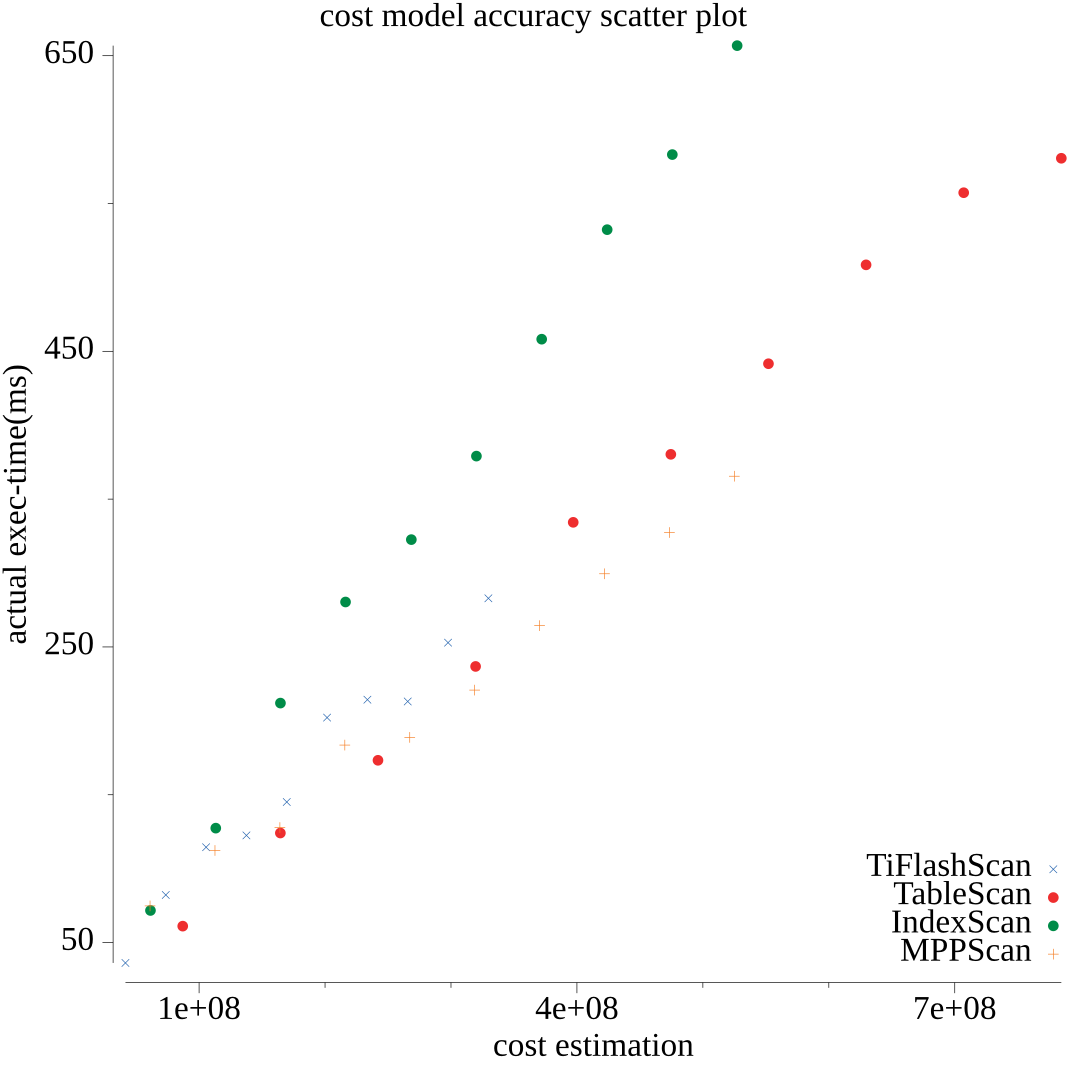
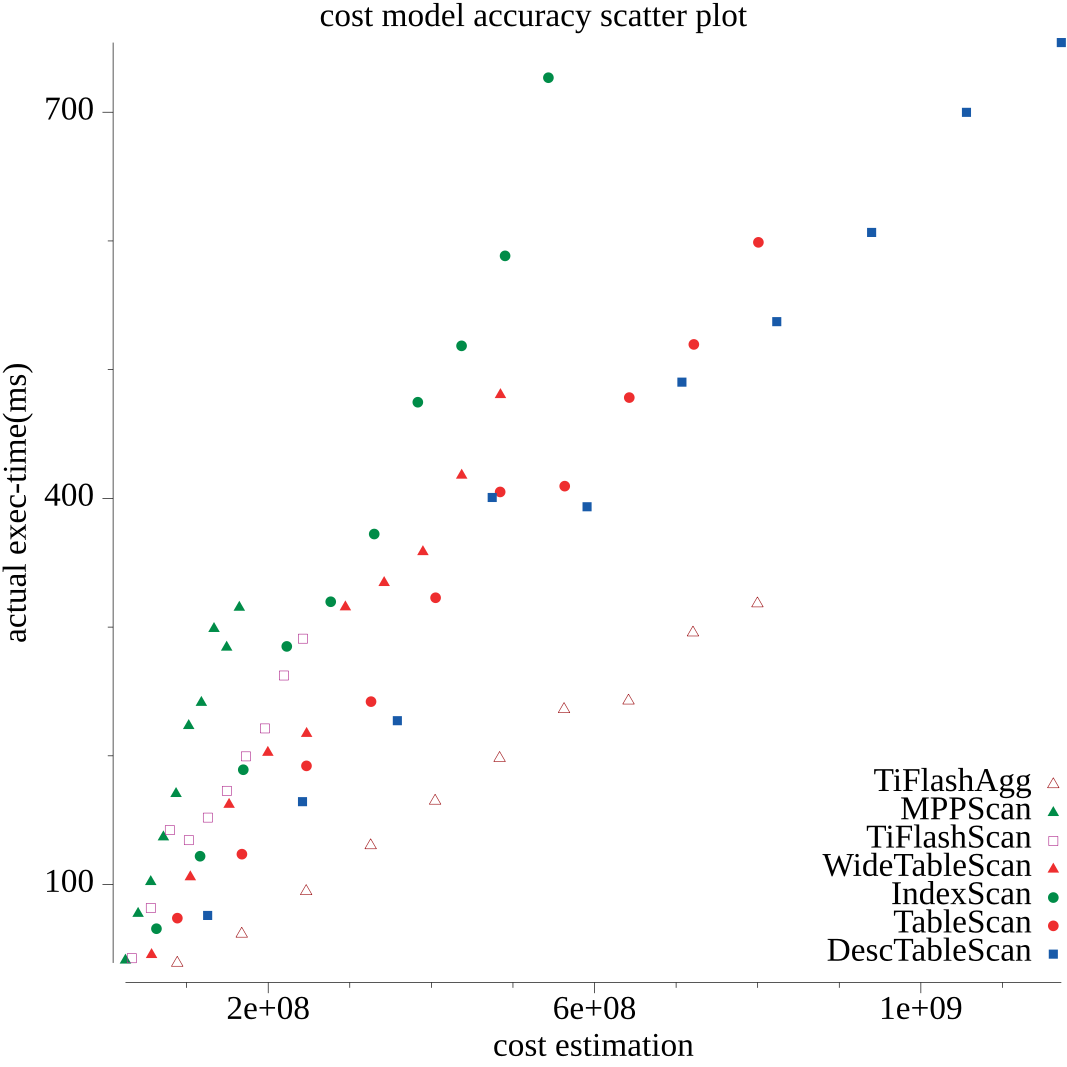
fixup

diff --git a/cost/eval_synthetic.go b/cost/eval_synthetic.go
@@ -63,8 +63,8 @@ func genSyntheticEvalQueries(ins tidb.Instance, db string, n int) Queries {
 
 	// TiKV Plans
 	qs = append(qs, genSyntheticEvalTableScan(ins, getSyntheticScale("TableScan"), n)...)
-	//qs = append(qs, genSyntheticEvalDescTableScan(ins, getSyntheticScale("DescTableScan"), n)...)
-	//qs = append(qs, genSyntheticEvalWideTableScan(ins, getSyntheticScale("WideTableScan"), n)...)
+	qs = append(qs, genSyntheticEvalDescTableScan(ins, getSyntheticScale("DescTableScan"), n)...)
+	qs = append(qs, genSyntheticEvalWideTableScan(ins, getSyntheticScale("WideTableScan"), n)...)
 	qs = append(qs, genSyntheticEvalIndexScan(ins, getSyntheticScale("IndexScan"), n)...)
 	//qs = append(qs, genSyntheticEvalDescIndexScan(ins, getSyntheticScale("DescIndexScan"), n)...)
 	//qs = append(qs, genSyntheticEvalWideIndexScan(ins, getSyntheticScale("WideIndexScan"), n)...)
@@ -79,7 +79,7 @@ func genSyntheticEvalQueries(ins tidb.Instance, db string, n int) Queries {
 	// TiFlash & MPP Plans
 	qs = append(qs, genSyntheticEvalTiFlashScan(ins, getSyntheticScale("TiFlashScan"), n)...)
 	qs = append(qs, genSyntheticEvalMPPScan(ins, getSyntheticScale("MPPScan"), n)...)
-	//qs = append(qs, genSyntheticEvalTiFlashAgg(ins, getSyntheticScale("TiFlashAgg"), n)...)
+	qs = append(qs, genSyntheticEvalTiFlashAgg(ins, getSyntheticScale("TiFlashAgg"), n)...)
 	//qs = append(qs, genSyntheticEvalMPPTiDBAgg(ins, getSyntheticScale("MPPTiDBAgg"), n)...)
 	//qs = append(qs, genSyntheticEvalMPP2PhaseAgg(ins, getSyntheticScale("MPP2PhaseAgg"), n)...)
 	//qs = append(qs, genSyntheticEvalMPPHJ(ins, getSyntheticScale("MPPHJ"), n)...)
@@ -342,7 +342,7 @@ func genSyntheticEvalMPPTiDBAgg(ins tidb.Instance, scale float64, n int) (qs Que
 		l, r := randRange(minB, maxB, i, n)
 		qs = append(qs, Query{
 			PreSQLs: []string{`set @@session.tidb_allow_batch_cop=1`, `set @@session.tidb_allow_mpp=1`, `set @@session.tidb_enforce_mpp=1`},
-			SQL:     fmt.Sprintf(`SELECT /*+ read_from_storage(tiflash[t]) */ COUNT(*) FROM t WHERE b>=%v and b<=%v`, l, r),
+			SQL:     fmt.Sprintf(`SELECT /*+ read_from_storage(tiflash[t]) */ COUNT(b) FROM t WHERE b>=%v and b<=%v`, l, r),
 			Label:   "MPPTiDBAgg",
 			TypeID:  tid,
 		})

diff --git a/cost/costeval.go b/cost/costeval.go
@@ -58,6 +58,14 @@ func (opt *evalOpt) InitSQLs() []string {
 		`set @@tidb_distsql_scan_concurrency=1`,
 		`set @@tidb_executor_concurrency=1`,
 		`set @@tidb_opt_tiflash_concurrency_factor=1`,
+		`set @@tidb_opt_cpu_factor_v2=30`,
+		`set @@tidb_opt_copcpu_factor_v2=30`,
+		`set @@tidb_opt_tiflash_cpu_factor_v2=2`,
+		`set @@tidb_opt_network_factor_v2=8`,
+		`set @@tidb_opt_scan_factor_v2=100`,
+		`set @@tidb_opt_desc_factor_v2=150`,
+		`set @@tidb_opt_tiflash_scan_factor_v2=2`,
+		`set @@tidb_opt_seek_factor_v2=9500000`,
 	}
 	switch opt.costModelVer {
 	case 2:
